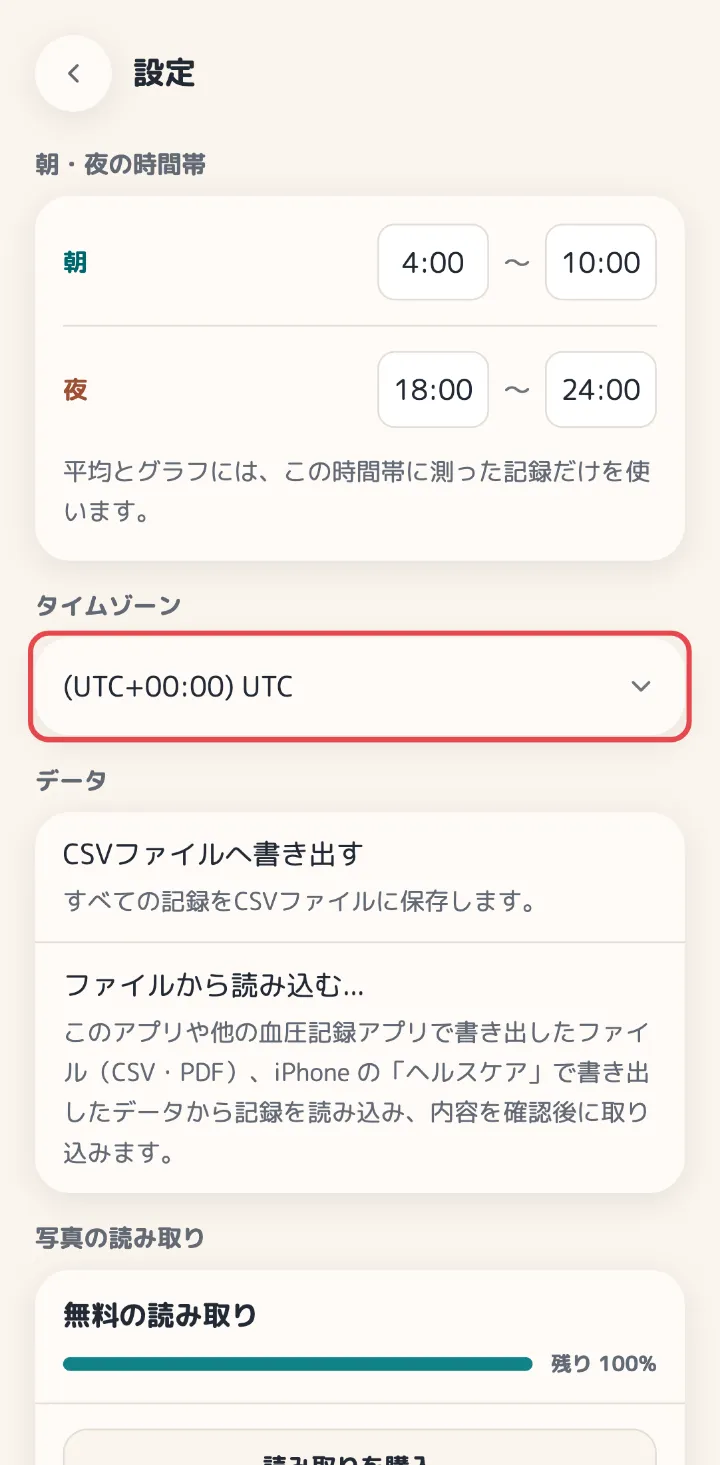
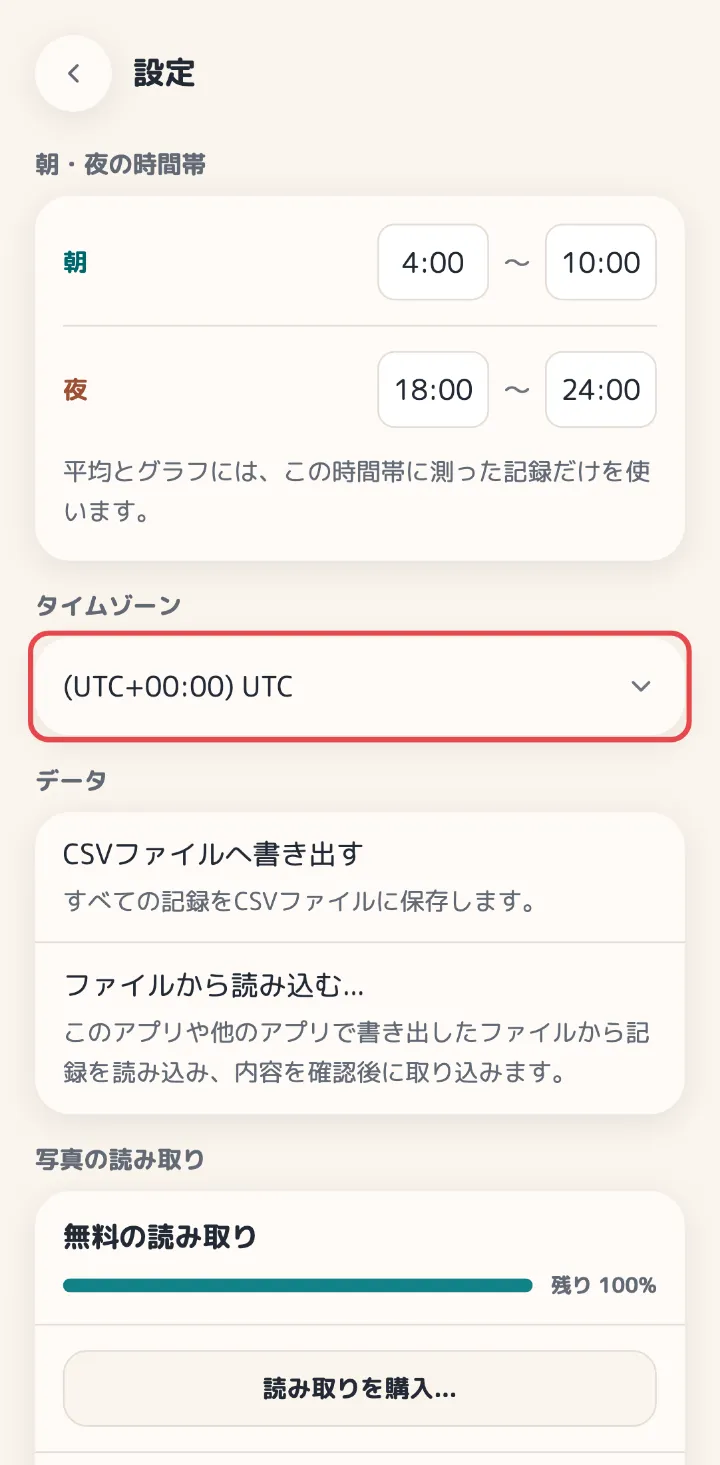
レビューの指摘を直す (説明文を短く・ファイルの種類の判定・空白だけの行・zip でない zip・PDF の大きさ・列の判定の打ち切り)

diff --git a/frontend/src/lib/import.ts b/frontend/src/lib/import.ts
@@ -74,11 +74,20 @@ export const IMPORT_FILE_ACCEPT =
 /** 取り込むファイルの読み方。`table` は表の形のテキスト (このアプリの CSV を含む)。 */
 export type ImportFileType = 'table' | 'document' | 'appleHealth';
 
+/** 「ヘルスケア」の書き出し (zip・中の XML) の種類。`xml`・`zip` を名前に含むだけの別の種類
+ * (Excel のブック `…openxmlformats…` など) を取り違えないよう、一致で見る。 */
+const APPLE_HEALTH_FILE_TYPES = new Set([
+	'application/zip',
+	'application/x-zip-compressed',
+	'text/xml',
+	'application/xml'
+]);
+
 /** 選んだファイルの読み方を、拡張子と種類から決める。どれでもなければ表の形のテキストとして読んでみる。 */
 export function importFileType(file: File): ImportFileType {
 	const name = file.name.toLowerCase();
 	if (name.endsWith('.pdf') || file.type === 'application/pdf') return 'document';
-	if (name.endsWith('.zip') || name.endsWith('.xml') || /zip|xml/.test(file.type)) {
+	if (name.endsWith('.zip') || name.endsWith('.xml') || APPLE_HEALTH_FILE_TYPES.has(file.type)) {
 		return 'appleHealth';
 	}
 	return 'table';

diff --git a/frontend/src/lib/import.spec.ts b/frontend/src/lib/import.spec.ts
@@ -5,6 +5,7 @@ import {
 	deletionWarning,
 	fetchExistingEntries,
 	importDateRange,
+	importFileType,
 	importRows,
 	applyEditedRow,
 	importRowStatus,
@@ -792,5 +793,20 @@ describe('importRows', () => {
 	it('throws if called with no included rows (callers must disable the button instead)', async () => {
 		await expect(importRows([validRow({ rowError: 'x' })], [])).rejects.toThrow();
 		expect(postMock).not.toHaveBeenCalled();
+	});
+});
+
+describe('importFileType', () => {
+	it.each([
+		['records.csv', 'text/csv', 'table'],
+		['records.txt', '', 'table'],
+		['report.PDF', '', 'document'],
+		['report', 'application/pdf', 'document'],
+		['書き出したデータ.zip', 'application/zip', 'appleHealth'],
+		['export.xml', 'text/xml', 'appleHealth'],
+		// 名前に xml を含むだけの種類 (Excel のブック) は、「ヘルスケア」の書き出しにしない。
+		['book.xlsx', 'application/vnd.openxmlformats-officedocument.spreadsheetml.sheet', 'table']
+	] as const)('%s (%s) is read as %s', (name, type, expected) => {
+		expect(importFileType(new File([''], name, { type }))).toBe(expected);
 	});
 });

diff --git a/frontend/src/lib/apple-health.ts b/frontend/src/lib/apple-health.ts
@@ -134,8 +134,12 @@ type ByteSource = {
  * 作り方を返す。`size` は、進み具合を出すための、読み進める元 (zip なら圧縮されたまま) の大きさ。 */
 async function exportXmlSource(file: File): Promise<ByteSource> {
 	const entries = await zipEntries(file);
-	// zip でなければ、取り出し済みの export.xml として読む。
-	if (entries === null) return { stream: () => file.stream(), size: file.size, deflated: false };
+	if (entries === null) {
+		// 名前が zip なのに zip として読めないファイルは、壊れているか別のもの。
+		if (/\.zip$/i.test(file.name)) throw new AppleHealthError('not_export');
+		// zip でなければ、取り出し済みの export.xml として読む。
+		return { stream: () => file.stream(), size: file.size, deflated: false };
+	}
 
 	const entry = exportEntry(entries);
 	if (!entry) throw new AppleHealthError('not_export');

diff --git a/frontend/src/routes/settings/import/+page.svelte b/frontend/src/routes/settings/import/+page.svelte
@@ -27,7 +27,7 @@
 		memoRowsFromReadings,
 		type MemoRow
 	} from '$lib/ocr';
-	import { fetchTableColumns, readDocument } from '$lib/ocr-files';
+	import { DOCUMENT_MAX_BYTES, fetchTableColumns, readDocument } from '$lib/ocr-files';
 	import { ImportConfirmation } from '$lib/import-confirmation.svelte';
 	import {
 		atPreviewStep,
@@ -197,6 +197,11 @@
 
 	/** PDF。全体を Gemini に送って読み取ってもらう。 */
 	async function loadDocument(file: File, isLatest: () => boolean) {
+		// 送れない大きさのファイルは、同意を求める前に伝える (同意して全体を送った後に断られないように)。
+		if (file.size > DOCUMENT_MAX_BYTES) {
+			fail(m.error_ocr_file_too_large());
+			return;
+		}
 		if ((await fetchOcrStatus()).enabled !== true) {
 			if (isLatest()) fail(m.error_ocr_disabled());
 			return;

diff --git a/frontend/src/lib/ocr-files.ts b/frontend/src/lib/ocr-files.ts
@@ -6,6 +6,9 @@ import type { OcrReading } from '$lib/ocr';
 /** 他のアプリが書き出したファイルの読み取り (Gemini 連携、docs/import-export.md「他のアプリのファイル」)。
  * 送る前の同意は画面が取る (`file-read-consent-dialog.svelte`)。 */
 
+/** 送れる PDF の大きさの上限 (`src/api/ocr_files.rs` の `DOCUMENT_MAX_UPLOAD_BYTES` と同じ)。 */
+export const DOCUMENT_MAX_BYTES = 10 * 1024 * 1024;
+
 /** 表の形のテキストの先頭 (`tableSample`) から、列の意味を決めてもらう。 */
 export function fetchTableColumns(sample: string): Promise<ApiResult<{ data: TableColumns }>> {
 	return unwrapRequest(client.POST('/api/v1/ocr/table-columns', { body: { sample } }));

diff --git a/frontend/src/lib/import-table.ts b/frontend/src/lib/import-table.ts
@@ -29,12 +29,12 @@ const DELIMITERS: Record<TableColumns['delimiter'], string> = {
 };
 
 /** 空行を除いた行。見本の行数 (`headerLines`) と、表に分けた行 (`parseCsvTable` は空行を読み飛ばす) の
- * 数え方をそろえる。 */
+ * 数え方をそろえる。空白だけの行は `parseCsvTable` が行として残すので、ここでも除かない。 */
 function nonEmptyLines(text: string): string[] {
 	return text
 		.replace(/^\uFEFF/, '')
 		.split(/\r\n|\r|\n/)
-		.filter((line) => line.trim() !== '');
+		.filter((line) => line !== '');
 }
 
 /** 列を決めてもらうために Gemini へ送る、ファイルの先頭の数行。 */

diff --git a/frontend/src/lib/apple-health.spec.ts b/frontend/src/lib/apple-health.spec.ts
@@ -119,5 +119,10 @@ describe('readAppleHealthExport', () => {
 		await expect(readAppleHealthExport(file, TOKYO)).rejects.toMatchObject({
 			reason: 'not_export'
 		} satisfies Partial<AppleHealthError>);
+		// 名前は zip でも、zip として読めないファイル。
+		const broken = new File(['not a zip'], 'broken.zip');
+		await expect(readAppleHealthExport(broken, TOKYO)).rejects.toMatchObject({
+			reason: 'not_export'
+		} satisfies Partial<AppleHealthError>);
 	});
 });

diff --git a/src/api/ocr_files.rs b/src/api/ocr_files.rs
@@ -135,7 +135,14 @@ async fn read_document(
     ocr_usage::ensure_budget(&state.pool, user.id, state.ocr_free_budget_yen).await?;
 
     let result = state.ocr.read_document(&file).await;
-    Ok(Json(spend(&state, user.id, result).await?))
+    spend(&state, user.id, result)
+        .await
+        .map(Json)
+        .map_err(|err| match err {
+            // 記録の数を減らせば読めるので、Gemini の失敗 (502) と分けて伝える。
+            OcrError::Truncated { .. } => AppError::OcrDocumentTooLong,
+            err => err.into(),
+        })
 }
 
 /// 使った額を引いて、結果を返す。応答が届いて課金された失敗でも引く (docs/ocr.md「使った額の数え方」)。
@@ -143,7 +150,7 @@ async fn spend<T>(
     state: &AppState,
     user_id: i64,
     result: Result<(T, OcrUsage), OcrError>,
-) -> Result<T, AppError> {
+) -> Result<T, OcrError> {
     match result {
         Ok((value, usage)) => {
             record_spent(state, user_id, &usage).await;
@@ -153,11 +160,7 @@ async fn spend<T>(
             if let Some(usage) = err.billed_usage() {
                 record_spent(state, user_id, usage).await;
             }
-            Err(match err {
-                // 記録の数を減らせば読めるので、Gemini の失敗 (502) と分けて伝える。
-                OcrError::Truncated { .. } => AppError::OcrDocumentTooLong,
-                err => err.into(),
-            })
+            Err(err)
         }
     }
 }

diff --git a/frontend/src/lib/help/ja/import-other-apps.md b/frontend/src/lib/help/ja/import-other-apps.md
@@ -6,11 +6,7 @@
 
 他の血圧記録アプリや血圧計のアプリで書き出したファイルから、記録をまとめて取り込みます。取り込む日の記録は、ファイルの内容に置き換わります。
 
-読み込めるのは、次のファイルです。
-
-- CSV などの、表の形のファイル
-- PDF ファイル
-- iPhone の「ヘルスケア」のアプリで書き出したデータ（zip ファイル）
+読み込めるのは、CSV などの表の形のファイル、PDF ファイル、iPhone の「ヘルスケア」のアプリで書き出したデータ（zip ファイル）です。
 
 CSV と PDF のファイルは、AI（Google の Gemini API）で読み取ります。写真の読み取りと同じ、読み取りの枠を使います。「ヘルスケア」のデータは、AI を使わずに読み込みます。
 
